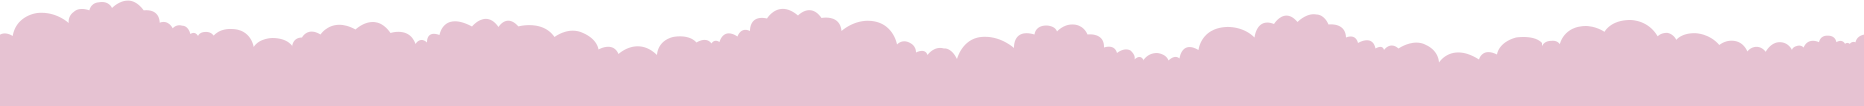
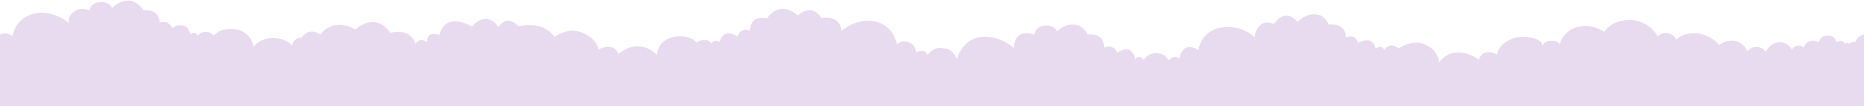
testing new clouds

diff --git a/public/css/styles.scss b/public/css/styles.scss
@@ -55,7 +55,7 @@
 a {
 	color: #3498DB;
 	text-decoration: none;
-	-webkit-transition: color 0.3s eas-in-out;
+	-webkit-transition: color 0.3s ease-in-out;
 	&:hover {
 		color: #E74C3C;
 	}
@@ -380,7 +380,7 @@ a {
 }
 
 .contact {
-	.home-content .title span {
+	.title span {
 		border: 1px solid rgba(0, 0, 0, 0.25);
 		color: rgba(0, 0, 0, 0.25);
 		padding: 5px 5px 5px 3px;
